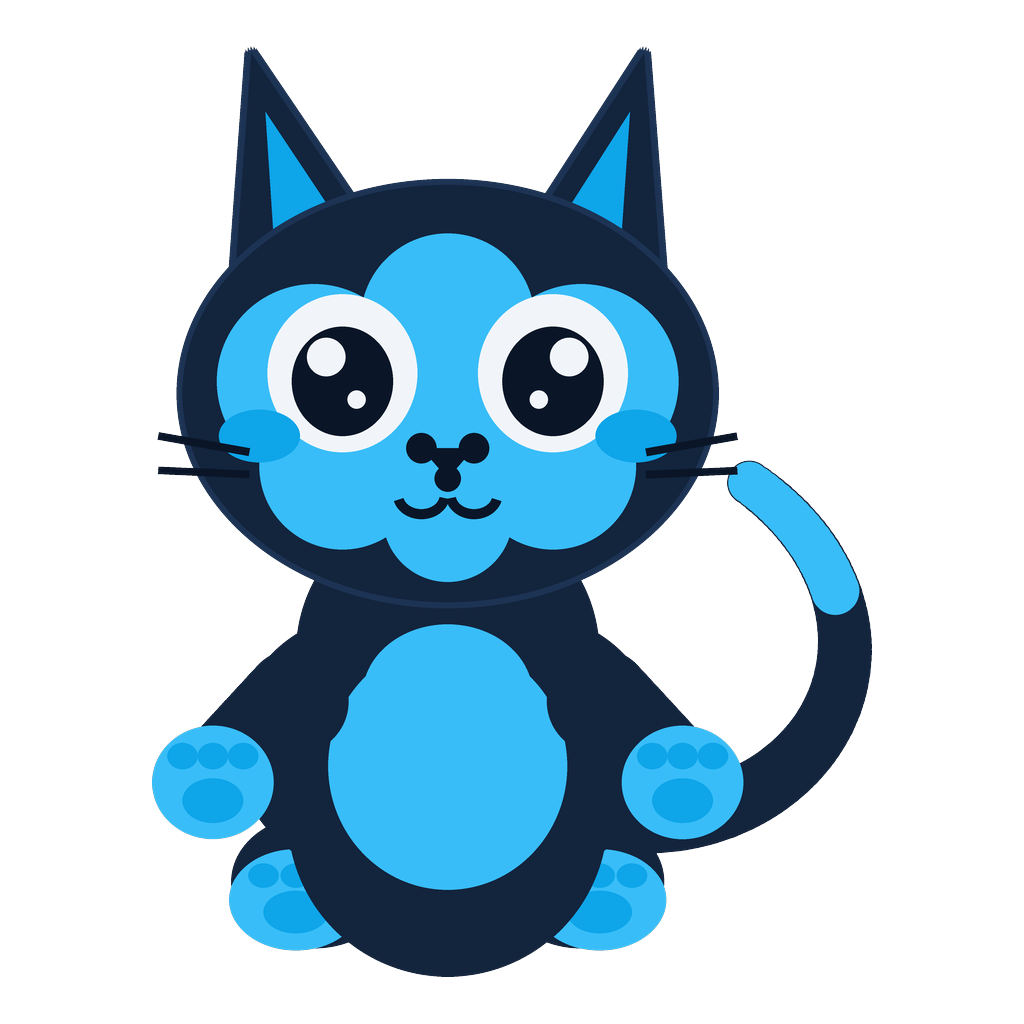
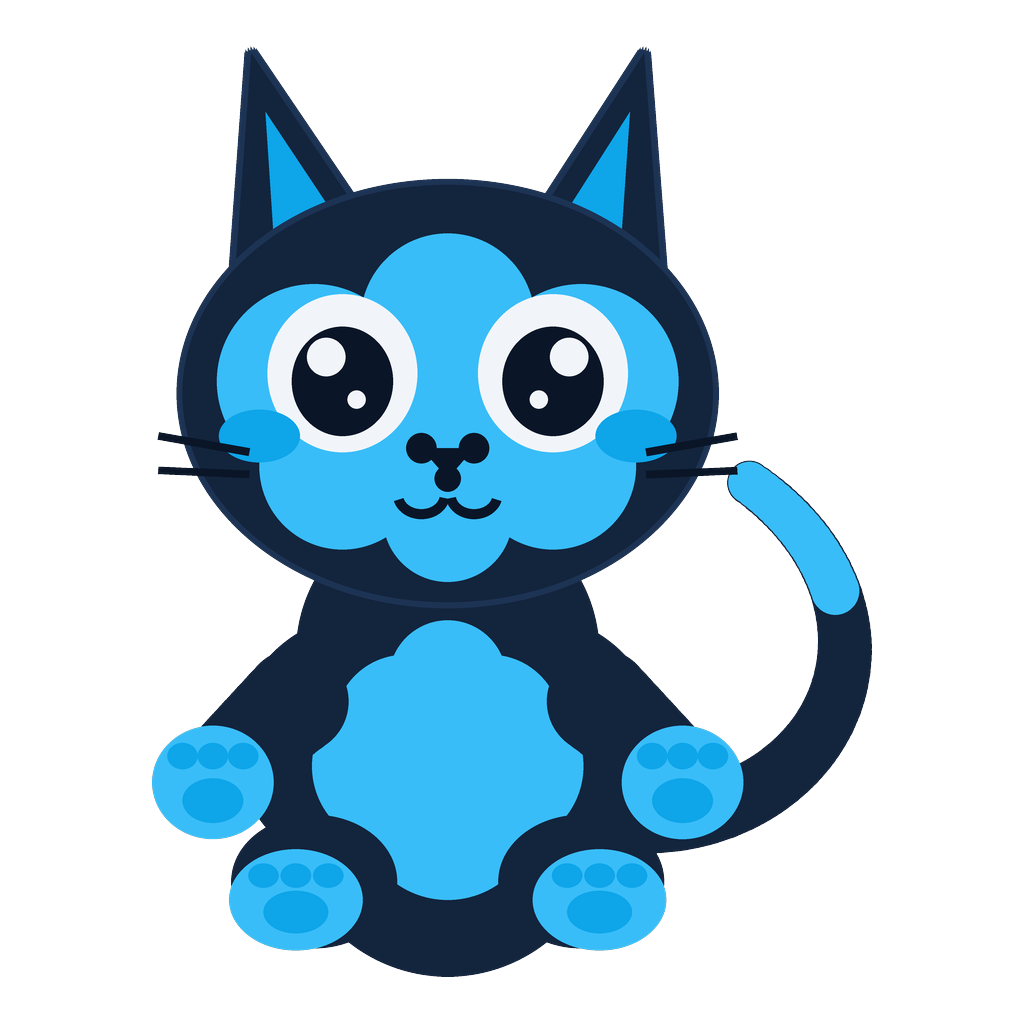
Mascot: feet in front, belly shaped instead of a circle
Two fixes on the chunky build, nothing else touched.

The feet were drawn before the torso, so the torso painted straight over
them and the belly appeared to swallow them. They are drawn after it now
and sit in front.

The belly was two concentric ellipses, which came out as a near-perfect
circle in the middle of the torso — a badge pinned on rather than a
marking that belongs to the body. It is a rounded shield now, narrow at
the chest and widening toward the bottom.

diff --git a/scripts/make_mascot.py b/scripts/make_mascot.py
@@ -102,17 +102,6 @@ def draw_tail(d):
 
 # ---------------------------------------------------------------- body
 def draw_body(d):
-    # Legs: short rounded stubs, feet turned out and sitting low enough to
-    # clear the belly — tucked any higher and they vanish behind it. Back
-    # paws get the same pad and toe beans as the hands, so all four match.
-    for sx in (-1, 1):
-        fx = 512 + sx * 150
-        ell(d, 512 + sx * 132, 926, 82, 66, NAVY)
-        ell(d, fx, 944, 66, 50, SKY)                    # paw
-        ell(d, fx, 956, 32, 21, SKY_DEEP)               # main pad
-        for f in (-1, 0, 1):                            # toe beans
-            ell(d, fx + f * 32, 920, 15, 12, SKY_DEEP)
-
     # Torso: a soft pear, wider at the bottom. Perimeter order — top, right,
     # bottom, left.
     blob(d, [
@@ -122,9 +111,27 @@ def draw_body(d):
         (430, 790, 128),
     ], NAVY)
 
-    # Belly patch.
-    ell(d, 512, 812, 118, 122, SKY)
-    ell(d, 512, 742, 84, 70, SKY)
+    # Belly: narrow at the chest, widening toward the bottom. Two concentric
+    # ellipses made a near-perfect circle sitting in the middle of the torso
+    # like a badge pinned on, rather than a marking that belongs to the body.
+    blob(d, [
+        (512, 726, 58),
+        (554, 772, 70),
+        (566, 812, 80),
+        (512, 856, 88),
+        (458, 812, 80),
+        (470, 772, 70),
+    ], SKY)
+
+    # Feet AFTER the torso, so the paws sit in front of it. Drawn before it
+    # they were painted straight over and the belly appeared to swallow them.
+    for sx in (-1, 1):
+        fx = 512 + sx * 150
+        ell(d, 512 + sx * 132, 926, 82, 66, NAVY)
+        ell(d, fx, 944, 66, 50, SKY)                    # paw
+        ell(d, fx, 956, 32, 21, SKY_DEEP)               # main pad
+        for f in (-1, 0, 1):                            # toe beans
+            ell(d, fx + f * 32, 920, 15, 12, SKY_DEEP)
 
     # Arms: rounded stubs ending in proper paws — a big palm pad and three
     # toe beans, same as the feet. Without the pads the hands were just
